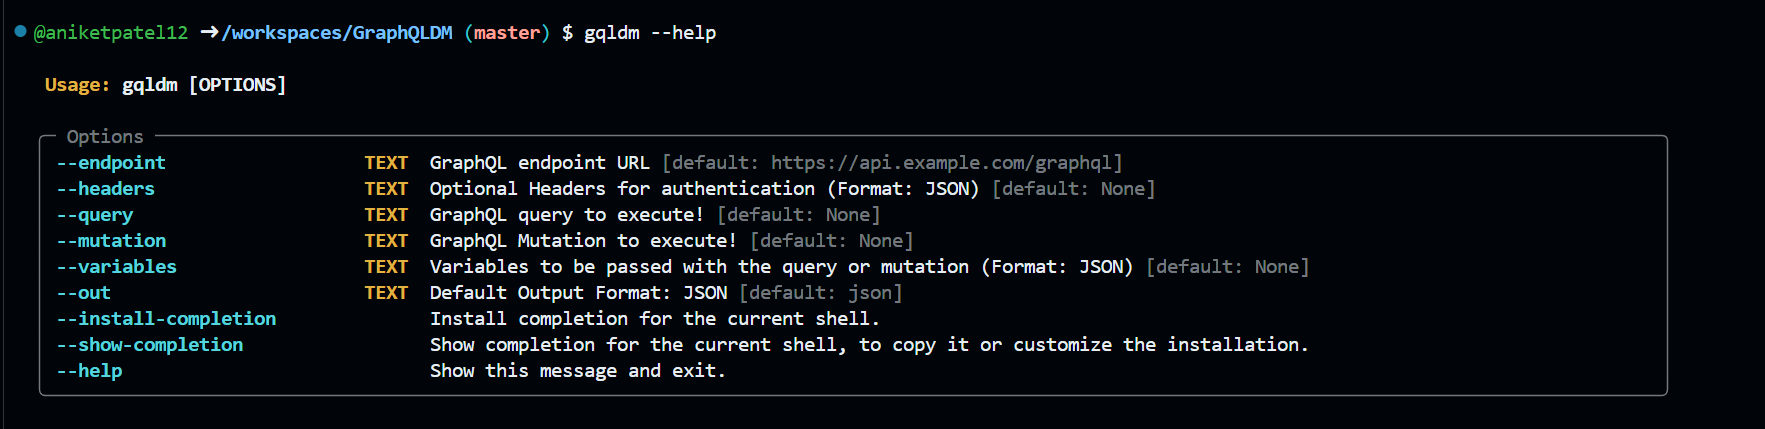
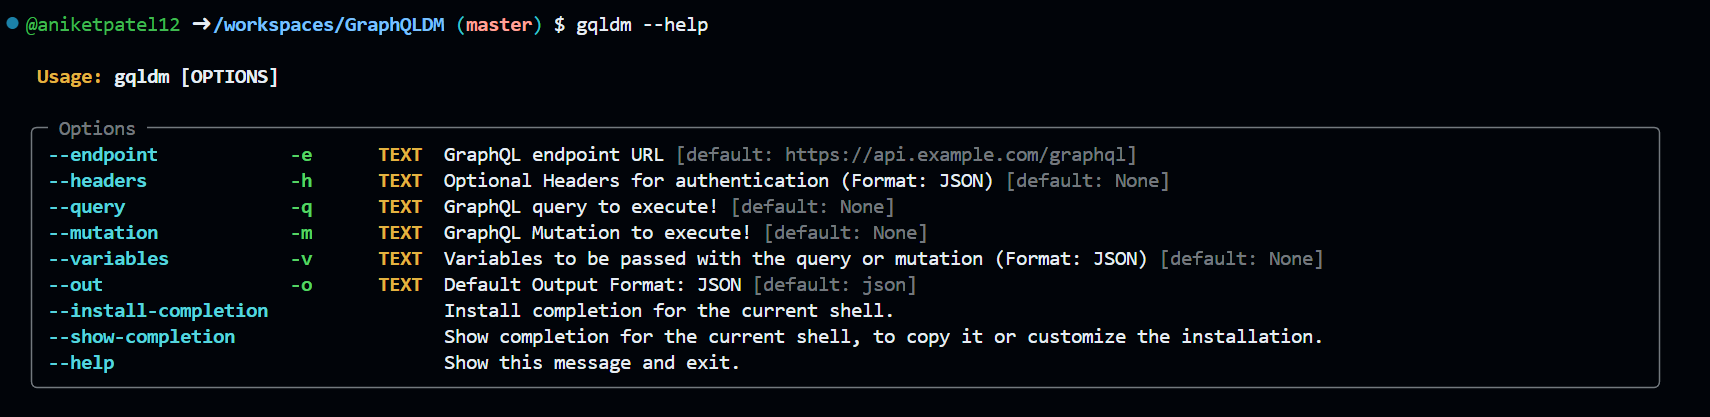
Added short versions of CLI options

Changed region(s): [[0.0, 0.2806, 0.9608, 0.9353], [0.0, 0.0312, 0.4339, 0.0935], [0.0, 0.1559, 0.186, 0.2182]]

diff --git a/graphqldm/cli.py b/graphqldm/cli.py
@@ -26,12 +26,12 @@ logger = logging.getLogger("rich")
 
 @app.command()
 def main(
-    endpoint: str = typer.Option(DEFAULT_GRAPHQL_ENDPOINT, help="GraphQL endpoint URL"),
-    headers: str = typer.Option(None, help="Optional Headers for authentication (Format: JSON)"),
-    query: str = typer.Option(None,  help="GraphQL query to execute!"),
-    mutation: str = typer.Option(None, help="GraphQL Mutation to execute!"),
-    variables: str = typer.Option(None, help="Variables to be passed with the query or mutation (Format: JSON)"),
-    outputFormat: str = typer.Option(DEFAULT_OUTPUT_FORMAT, "--out", help="Default Output Format: JSON"),
+    endpoint: str = typer.Option(DEFAULT_GRAPHQL_ENDPOINT, "--endpoint", "-e" , help="GraphQL endpoint URL"),
+    headers: str = typer.Option(None, "--headers", "-h", help="Optional Headers for authentication (Format: JSON)"),
+    query: str = typer.Option(None,  "--query", "-q", help="GraphQL query to execute!"),
+    mutation: str = typer.Option(None, "--mutation", "-m", help="GraphQL Mutation to execute!"),
+    variables: str = typer.Option(None, "--variables", "-v",help="Variables to be passed with the query or mutation (Format: JSON)"),
+    outputFormat: str = typer.Option(DEFAULT_OUTPUT_FORMAT, "--out", "-o", help="Default Output Format: JSON"),
 ):
 
     if headers is not None and headers != "[]":

diff --git a/README.md b/README.md
@@ -1,5 +1,5 @@
 # GraphQLDM
-GraphQLDM is a powerful command-line tool for seamless interaction with GraphQL APIs. It offers easy querying, mutation execution, and data manipulation, empowering developers to efficiently manage and explore GraphQL data through simple commands.
+GraphQLDM (GraphQL Data Manipulation) is a powerful command-line tool for seamless interaction with GraphQL APIs. It offers easy querying, mutation execution, and data manipulation, empowering developers to efficiently manage and explore GraphQL data through simple commands.
 
 ## Installation
 
@@ -57,3 +57,7 @@ gqldm --help
 Output:
 
 ![alt text](image.png)
+
+### Contributing
+
+If you want to contribute to GraphQLDM, feel free to open an issue or submit a pull request on GitHub.
